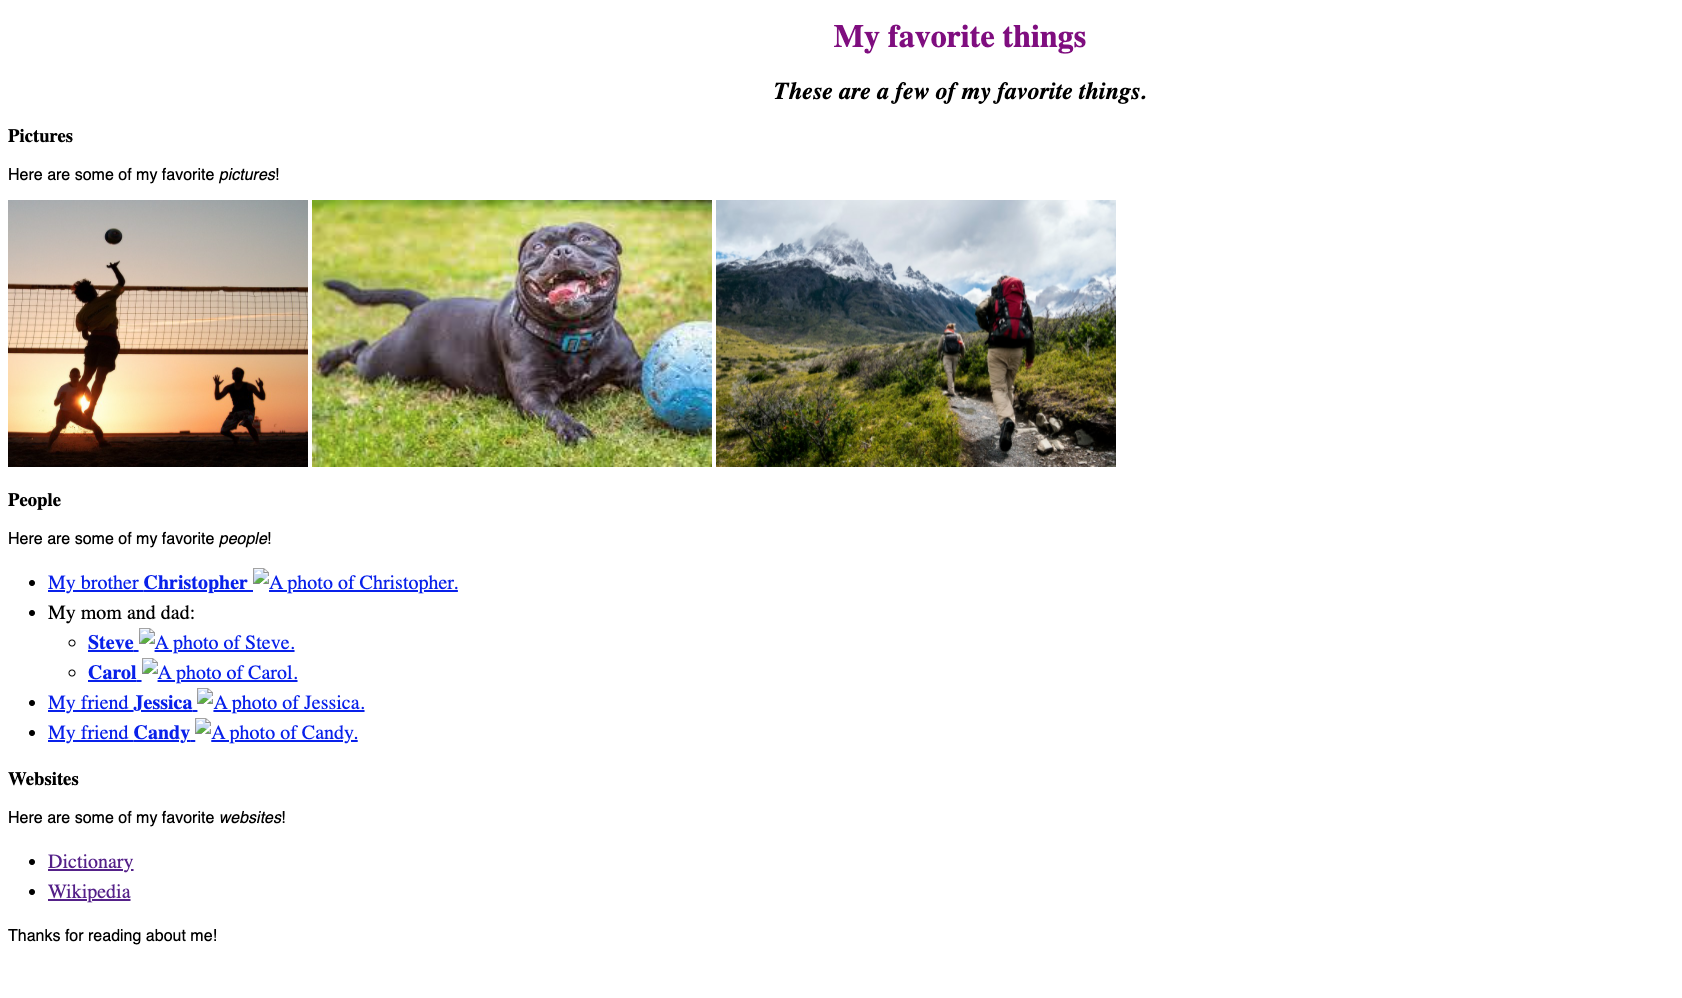
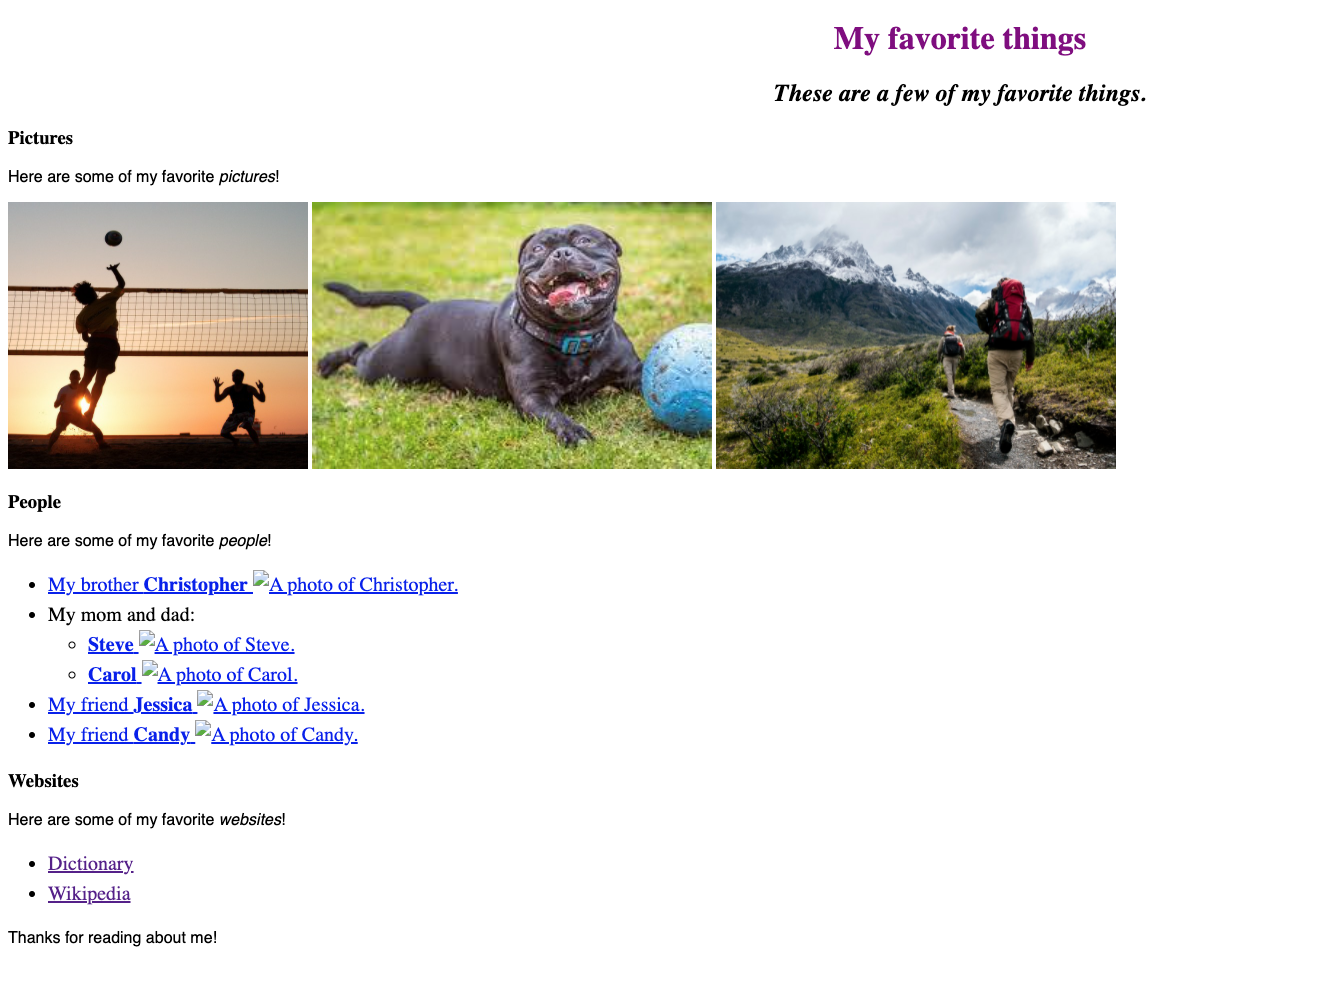
Changed columns to grid

diff --git a/index.html b/index.html
@@ -9,17 +9,27 @@
 <body>
   <div class="jumbotron">
     <h1 class="header">Projects</h1> 
-    <div class="column">
-      <h2>Araceli Valdovinos</h2>
-      <img src="img/porfolio-pic.JPG" width="auto" height="300">
-      <h3>About Me</h3>
-      <p>Hello visitors! I have always introduced myself as a chemist or forensic scientist in the past because of my career choice and my background in science but now I am pursuing a career in the software development world with an urge to learn more about this field so now I will introduce myself just as Araceli. I have graduated from the University of Texas from San Antonio with a B.A. in Chemistry and B.S. in Biochemistry. I've worked as a chemist for a Biochemistry research at alma mater and then later on as a Forensic Scientist for a state government agency.</p>
-    </div>
   </div>
+    <div class="row">
+      <div class="col-3">
+        <h2>Araceli Valdovinos</h2>
+        <img src="img/porfolio-pic.JPG" width="auto" height="300">
+        <h3>About Me</h3>
+        <p>Hello visitors! I have always introduced myself as a chemist or forensic scientist in the past because of my career choice and my background in science but now I am pursuing a career in the software development world with an urge to learn more about this field so now I will introduce myself just as Araceli. I have graduated from the University of Texas from San Antonio with a B.A. in Chemistry and B.S. in Biochemistry. I've worked as a chemist for a Biochemistry research at alma mater and then later on as a Forensic Scientist for a state government agency.</p>
+      </div>
+      <div class="col-3">
+        <img src="img/favorite-things.png" width="auto" height="200">
+      </div>
+      <div class="col-3">
+        <img src="img/cupcake.png" width="auto" height="200">
+      </div>
+      <div class="col-3">
+        <img src="img/petblog.png" width="auto" height="200">
+      </div>
+    </div>
+</body>
+</html>
   
-  <img src="img/favorite-things.png" width="auto" height="200">
-  <img src="img/cupcake.png" width="auto" height="200">
-  <img src="img/petblog.png" width="auto" height="200">
   
   
 
